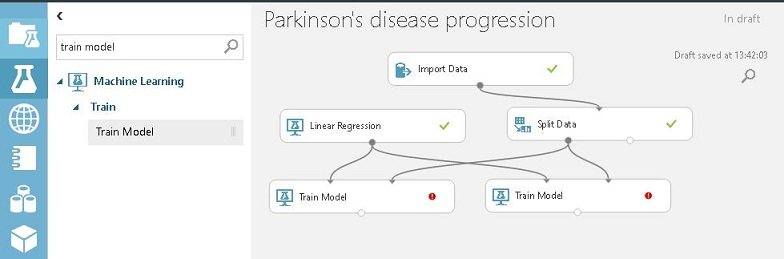
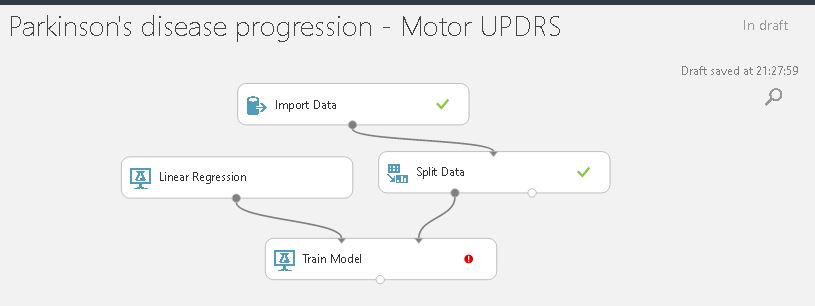
Azure ML article updated

diff --git a/MSDN/Azure/predictive-analytics-azure-ml.md b/MSDN/Azure/predictive-analytics-azure-ml.md
@@ -37,11 +37,11 @@ with Parkinson's disease. Our model will follow these steps:
 ## What we are going to predict?
 We are going to predict two scores of Unified Parkinson's disease rating scale (UPDRS): motor and total evaluation.
 
-* Motor UPDRS: Score that provides a measure of key motor symptoms:
+1. **Motor UPDRS:** Score that provides a measure of key motor symptoms:
 
 ![](./img/img-002.JPG) 
 
-* Total UPDRS: Sum of points based on some questions, defining the severity of the disease in a patient. 
+2. **Total UPDRS:** Sum of points based on some questions, defining the severity of the disease in a patient. 
 The score range is 0 (not affected) to 176 (most severely affected).
 
 You can find detailed infomation about UPDRS <a href="http://viartis.net/parkinsons.disease/UPDRS2.pdf" target="_blank">here</a>.
@@ -59,7 +59,14 @@ all of them because this is not the objetive of this article.
 
 ![](./img/img-003.JPG) 
 
-## Getting started
+## Experiments
+
+As mentioned, this solution requires two predictions. 
+For many cases you'll need to deal with only one prediction (so only one experiment is necessary).  
+So for this scenario we'll need to create two experiments: one for predicting motor UPDRS and one for predicting total UPDRS. 
+In the next step we are going to create a specific experiment for motor UPDRS and then create other experiment for total UPDRS.
+
+## Getting started: Prediction for motor UPDRS
 First of all, go to <a href="https://studio.azureml.net/" target="_blank">Azure ML Studio</a> website. 
 If you already has an Azure subscription, you can just sign in. 
 If you just want to do some tests, you can try it for free choosing the trial version.
@@ -133,44 +140,68 @@ In our case we want to use *Linear Regression*, because our goal is making predi
 ## Train and test the model
 
 We defined the learning algorithm. Now it's time to apply it to the dataset and train the model. 
-Drag a **Linear Regression** item and two **Train Model** items to the experiment area. 
-Each **Train Model** will be used to predict a value. We want to predict two values (motor UPDRS and total UPDRS), so we need two Train Model items.
+Drag a **Linear Regression** and a **Train Model** item to the experiment area. 
+The **Train Model** will be used to train the motor UPDRS value based on historical data.
 
-Connect the output port of **Linear Regression** to the left input port of both **Train Model** items. 
-Also, connect the left output port of **Split Data** to the right input port of both **Train Model** items. 
+Connect the output port of **Linear Regression** to the left input port of **Train Model** 
+and connect the left output port of **Split Data** to the right input port of **Train Model**. 
 The right output port of **Split Data** will be used later. The image below shows the current model.
 
 ![](./img/img-009.JPG)
 
-As you can see, both **Train Model** items are requiring a value. 
-One **Train Model** will be used for training the *motor_UPDRS* value and the other item will be used for training *total_UPDRS*.
-So click on each Train Model item, go to *Properties* and click on *Launch column selector* button.
+As you can see the **Train Model** item is requiring a value. 
+This item will be used for training the *motor_UPDRS* value based on *Linear Regression* algorithm.
+So click on the Train Model item, go to *Properties* and click on *Launch column selector* button.
 
 ![](./img/img-010.JPG)
 
-On the left, click on **With Rules**. Select *motor_UPDRS* column name for the first Train Model item and *total_UPDRS* for the second item.
+On the left, click on **With Rules** and select *motor_UPDRS* column name.
 
 ![](./img/img-011.JPG)
 
-To avoid confusing, is a good practice defining a description for each item. To do this, double click on a Train Model item and input a description. 
-For the first item I described as *"Training motor UPDRS"* and the second item as *"Training total UPDRS"*.
+To avoid confusing, is a good practice defining a description for each item. To do this, double click on the Train Model 
+(or any other item you want) and input a description.
 
 ![](./img/img-012.JPG)
 
-Click on *Run* to start the training. If everything is ok, drag two **Score Model** items to the experiment area. 
-Each Score Model will be used to generate predictions based on the trained model. 
-It will use the 25% of data that we splitted for tests previously as input to generate predictions.
+Click on *Run* to start the training. If everything is ok, drag a **Score Model** to the experiment area. 
+This item will be used to provide predictions based on the trained model. 
+It will use the 25% of data that we splitted for tests previously (in the Split Data item) as input to generate predictions.
 
-Connect the output port of a **Train Model** to the left input port of a **Score Model**. 
-Also, connect the right output port of **Split Data** to the right output port of both **Train Model** items.
+Connect the output port of the **Train Model** to the left input port of the **Score Model**. 
+Also, connect the right output port of **Split Data** to the right output port of the **Train Model** item.
 
 ![](./img/img-013.JPG)
 
-Click on *Run* to update the training. If you want to compare the actual results with predicted results, just right-click on a **Score Model**, 
-select *Scored dataset* and then click on *Visualize*.
-
-Let's compare the results of motor UPDRS checking two columns: *motor_UPDRS* and *Scored Labels*. 
-If we compare the first row, we can see that *motor_UPDRS* (actual result) is equal to 8.5502 while the *Scored Labels* (predicted result) is equal to 7.766599. 
-As you can see the predicted result is pretty nice.
+Click on *Run* to update the training. If you want to compare the actual results with predicted results, 
+just right-click on the **Score Model**, select *Scored dataset* and then click on *Visualize*.
 
 ![](./img/img-014.JPG)
+
+We just want to compare the *motor_UPDRS* with *Scored Labels*, so let's remove all other columns. 
+Click on the **Score Model**, go to *Properties* and uncheck *Append score columns to output*. 
+If you select *Visualize* again, you will have a visualization similar to this:
+
+![](./img/img-015.JPG)
+
+It is much better for comparing data, isn't it? If we compare the first row, we can see that *motor_UPDRS* (actual result) 
+is equal to 8.5502 while the *Scored Labels* (predicted result) is equal to 7.766599. 
+As you can see the predicted result seems good.
+
+But how can we test the quality of the results? We can do it using an item called **Evaluate Model**. 
+It is always recommended to use this item after Score Model, because it will help you see if the algorithm that you selected previously 
+is good enough for your case. If results are not close to what you expected, you can easily go back and choose 
+another learning algorithm and train you model again.
+
+So drag a **Evaluate Model** to the experiment area and connect the output port of the **Score Model** to the left input port of the **Evaluate Model**. 
+The image below shows the current model.
+
+![](./img/img-016.JPG)
+
+Click on *Run*. To see the evaluation, just right-click on the **Evaluate Model**, select *Evaluation results* and then click on *Visualize*. 
+
+The coefficient of determination (also known as R squared value) for motor UPDRS is about 90%. 
+It is a statistical metric indicating how well a model fits the data. 
+For demo purposes this percentage is enough, but depending on the situation in a real case it must be improved.
+
+![](./img/img-017.JPG)
